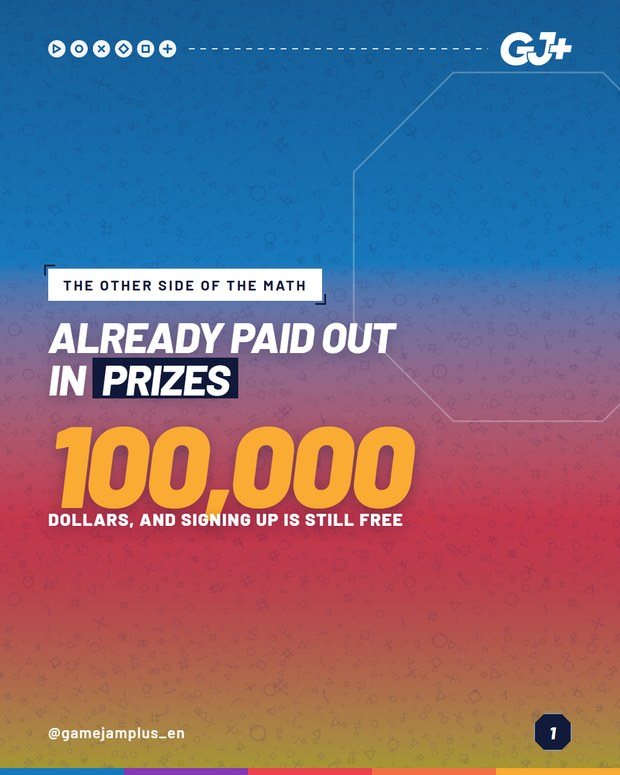
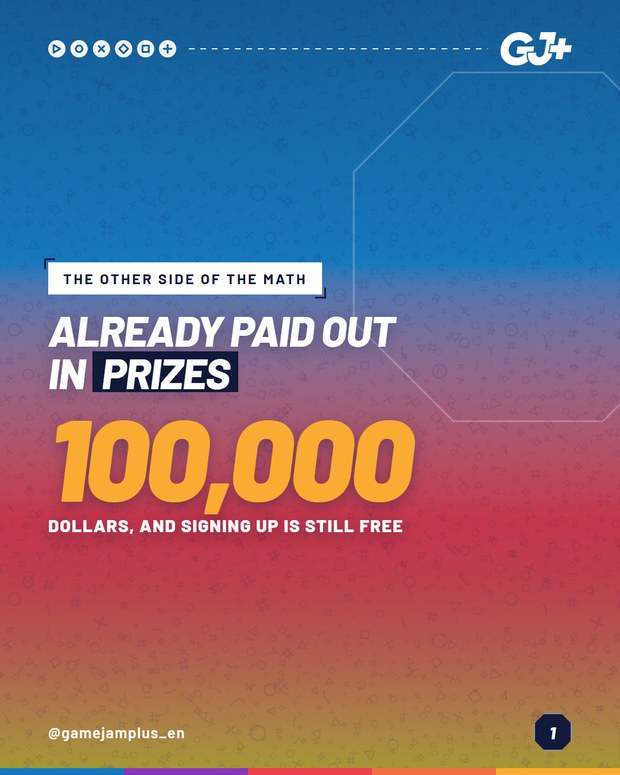
Numeral grande ganha respiro antes do rotulo
Com a virgula de "100,000" o descendente do numeral encostava na linha de
baixo, no E18 em ingles. O recuo negativo de -14px no `.big b` fechava o vao
de 140px que existia antes, mas fechava demais: o `line-height:.82` ja segura
esse vao sozinho. Saiu o recuo, e o respiro do rotulo subiu de 14 pra 22px,
que e o que o dono pediu tambem pros que nao encostavam.

Vale pra todo slide de numeral grande daqui em diante. O E12, que tambem usa o
bloco, so pega a mudanca quando for reexportado.

Changed region(s): [[0.0613, 0.3097, 0.6742, 0.7123]]

diff --git a/index.html b/index.html
@@ -1145,15 +1145,15 @@ dialog img{width:min(92vw,620px);max-height:92dvh;object-fit:contain;border-radi
 <article class="c" data-cat="01-conteudos-gj" data-lang="PT" data-busca="e18 - o que esta em jogo gj+" id="c266">
   <header><div><span class="tagcat">GJ+</span><span class="taglang PT">PT</span><h2>E18 - O que esta em jogo</h2></div>
   <div class="nav"><button aria-label="Anterior" data-d="-1">&#8592;</button><button aria-label="Pr&#243;ximo" data-d="1">&#8594;</button><span class="cont">6</span></div></header>
-  <div class="strip"><figure><img src="img/01-conteudos-gj-pt-e18-o-que-esta-em-jogo/slide_01.jpg?v=3" alt="E18 - O que esta em jogo 1" width="620" height="775" loading="lazy" decoding="async"><figcaption>01</figcaption></figure><figure><img src="img/01-conteudos-gj-pt-e18-o-que-esta-em-jogo/slide_02.jpg?v=3" alt="E18 - O que esta em jogo 2" width="620" height="775" loading="lazy" decoding="async"><figcaption>02</figcaption></figure><figure><img src="img/01-conteudos-gj-pt-e18-o-que-esta-em-jogo/slide_03.jpg?v=3" alt="E18 - O que esta em jogo 3" width="620" height="775" loading="lazy" decoding="async"><figcaption>03</figcaption></figure><figure><img src="img/01-conteudos-gj-pt-e18-o-que-esta-em-jogo/slide_04.jpg?v=3" alt="E18 - O que esta em jogo 4" width="620" height="775" loading="lazy" decoding="async"><figcaption>04</figcaption></figure><figure><img src="img/01-conteudos-gj-pt-e18-o-que-esta-em-jogo/slide_05.jpg?v=3" alt="E18 - O que esta em jogo 5" width="620" height="775" loading="lazy" decoding="async"><figcaption>05</figcaption></figure><figure><img src="img/01-conteudos-gj-pt-e18-o-que-esta-em-jogo/slide_06.jpg?v=3" alt="E18 - O que esta em jogo 6" width="620" height="775" loading="lazy" decoding="async"><figcaption>06</figcaption></figure></div></article>
+  <div class="strip"><figure><img src="img/01-conteudos-gj-pt-e18-o-que-esta-em-jogo/slide_01.jpg?v=4" alt="E18 - O que esta em jogo 1" width="620" height="775" loading="lazy" decoding="async"><figcaption>01</figcaption></figure><figure><img src="img/01-conteudos-gj-pt-e18-o-que-esta-em-jogo/slide_02.jpg?v=4" alt="E18 - O que esta em jogo 2" width="620" height="775" loading="lazy" decoding="async"><figcaption>02</figcaption></figure><figure><img src="img/01-conteudos-gj-pt-e18-o-que-esta-em-jogo/slide_03.jpg?v=4" alt="E18 - O que esta em jogo 3" width="620" height="775" loading="lazy" decoding="async"><figcaption>03</figcaption></figure><figure><img src="img/01-conteudos-gj-pt-e18-o-que-esta-em-jogo/slide_04.jpg?v=4" alt="E18 - O que esta em jogo 4" width="620" height="775" loading="lazy" decoding="async"><figcaption>04</figcaption></figure><figure><img src="img/01-conteudos-gj-pt-e18-o-que-esta-em-jogo/slide_05.jpg?v=4" alt="E18 - O que esta em jogo 5" width="620" height="775" loading="lazy" decoding="async"><figcaption>05</figcaption></figure><figure><img src="img/01-conteudos-gj-pt-e18-o-que-esta-em-jogo/slide_06.jpg?v=4" alt="E18 - O que esta em jogo 6" width="620" height="775" loading="lazy" decoding="async"><figcaption>06</figcaption></figure></div></article>
 <article class="c" data-cat="01-conteudos-gj" data-lang="EN" data-busca="e18 - what is on the table gj+" id="c267">
   <header><div><span class="tagcat">GJ+</span><span class="taglang EN">EN</span><h2>E18 - What is on the table</h2></div>
   <div class="nav"><button aria-label="Anterior" data-d="-1">&#8592;</button><button aria-label="Pr&#243;ximo" data-d="1">&#8594;</button><span class="cont">6</span></div></header>
-  <div class="strip"><figure><img src="img/01-conteudos-gj-en-e18-what-is-on-the-table/slide_01.jpg?v=3" alt="E18 - What is on the table 1" width="620" height="775" loading="lazy" decoding="async"><figcaption>01</figcaption></figure><figure><img src="img/01-conteudos-gj-en-e18-what-is-on-the-table/slide_02.jpg?v=3" alt="E18 - What is on the table 2" width="620" height="775" loading="lazy" decoding="async"><figcaption>02</figcaption></figure><figure><img src="img/01-conteudos-gj-en-e18-what-is-on-the-table/slide_03.jpg?v=3" alt="E18 - What is on the table 3" width="620" height="775" loading="lazy" decoding="async"><figcaption>03</figcaption></figure><figure><img src="img/01-conteudos-gj-en-e18-what-is-on-the-table/slide_04.jpg?v=3" alt="E18 - What is on the table 4" width="620" height="775" loading="lazy" decoding="async"><figcaption>04</figcaption></figure><figure><img src="img/01-conteudos-gj-en-e18-what-is-on-the-table/slide_05.jpg?v=3" alt="E18 - What is on the table 5" width="620" height="775" loading="lazy" decoding="async"><figcaption>05</figcaption></figure><figure><img src="img/01-conteudos-gj-en-e18-what-is-on-the-table/slide_06.jpg?v=3" alt="E18 - What is on the table 6" width="620" height="775" loading="lazy" decoding="async"><figcaption>06</figcaption></figure></div></article>
+  <div class="strip"><figure><img src="img/01-conteudos-gj-en-e18-what-is-on-the-table/slide_01.jpg?v=4" alt="E18 - What is on the table 1" width="620" height="775" loading="lazy" decoding="async"><figcaption>01</figcaption></figure><figure><img src="img/01-conteudos-gj-en-e18-what-is-on-the-table/slide_02.jpg?v=4" alt="E18 - What is on the table 2" width="620" height="775" loading="lazy" decoding="async"><figcaption>02</figcaption></figure><figure><img src="img/01-conteudos-gj-en-e18-what-is-on-the-table/slide_03.jpg?v=4" alt="E18 - What is on the table 3" width="620" height="775" loading="lazy" decoding="async"><figcaption>03</figcaption></figure><figure><img src="img/01-conteudos-gj-en-e18-what-is-on-the-table/slide_04.jpg?v=4" alt="E18 - What is on the table 4" width="620" height="775" loading="lazy" decoding="async"><figcaption>04</figcaption></figure><figure><img src="img/01-conteudos-gj-en-e18-what-is-on-the-table/slide_05.jpg?v=4" alt="E18 - What is on the table 5" width="620" height="775" loading="lazy" decoding="async"><figcaption>05</figcaption></figure><figure><img src="img/01-conteudos-gj-en-e18-what-is-on-the-table/slide_06.jpg?v=4" alt="E18 - What is on the table 6" width="620" height="775" loading="lazy" decoding="async"><figcaption>06</figcaption></figure></div></article>
 <article class="c" data-cat="01-conteudos-gj" data-lang="ES" data-busca="e18 - lo que esta en juego gj+" id="c268">
   <header><div><span class="tagcat">GJ+</span><span class="taglang ES">ES</span><h2>E18 - Lo que esta en juego</h2></div>
   <div class="nav"><button aria-label="Anterior" data-d="-1">&#8592;</button><button aria-label="Pr&#243;ximo" data-d="1">&#8594;</button><span class="cont">6</span></div></header>
-  <div class="strip"><figure><img src="img/01-conteudos-gj-es-e18-lo-que-esta-en-juego/slide_01.jpg?v=3" alt="E18 - Lo que esta en juego 1" width="620" height="775" loading="lazy" decoding="async"><figcaption>01</figcaption></figure><figure><img src="img/01-conteudos-gj-es-e18-lo-que-esta-en-juego/slide_02.jpg?v=3" alt="E18 - Lo que esta en juego 2" width="620" height="775" loading="lazy" decoding="async"><figcaption>02</figcaption></figure><figure><img src="img/01-conteudos-gj-es-e18-lo-que-esta-en-juego/slide_03.jpg?v=3" alt="E18 - Lo que esta en juego 3" width="620" height="775" loading="lazy" decoding="async"><figcaption>03</figcaption></figure><figure><img src="img/01-conteudos-gj-es-e18-lo-que-esta-en-juego/slide_04.jpg?v=3" alt="E18 - Lo que esta en juego 4" width="620" height="775" loading="lazy" decoding="async"><figcaption>04</figcaption></figure><figure><img src="img/01-conteudos-gj-es-e18-lo-que-esta-en-juego/slide_05.jpg?v=3" alt="E18 - Lo que esta en juego 5" width="620" height="775" loading="lazy" decoding="async"><figcaption>05</figcaption></figure><figure><img src="img/01-conteudos-gj-es-e18-lo-que-esta-en-juego/slide_06.jpg?v=3" alt="E18 - Lo que esta en juego 6" width="620" height="775" loading="lazy" decoding="async"><figcaption>06</figcaption></figure></div></article>
+  <div class="strip"><figure><img src="img/01-conteudos-gj-es-e18-lo-que-esta-en-juego/slide_01.jpg?v=4" alt="E18 - Lo que esta en juego 1" width="620" height="775" loading="lazy" decoding="async"><figcaption>01</figcaption></figure><figure><img src="img/01-conteudos-gj-es-e18-lo-que-esta-en-juego/slide_02.jpg?v=4" alt="E18 - Lo que esta en juego 2" width="620" height="775" loading="lazy" decoding="async"><figcaption>02</figcaption></figure><figure><img src="img/01-conteudos-gj-es-e18-lo-que-esta-en-juego/slide_03.jpg?v=4" alt="E18 - Lo que esta en juego 3" width="620" height="775" loading="lazy" decoding="async"><figcaption>03</figcaption></figure><figure><img src="img/01-conteudos-gj-es-e18-lo-que-esta-en-juego/slide_04.jpg?v=4" alt="E18 - Lo que esta en juego 4" width="620" height="775" loading="lazy" decoding="async"><figcaption>04</figcaption></figure><figure><img src="img/01-conteudos-gj-es-e18-lo-que-esta-en-juego/slide_05.jpg?v=4" alt="E18 - Lo que esta en juego 5" width="620" height="775" loading="lazy" decoding="async"><figcaption>05</figcaption></figure><figure><img src="img/01-conteudos-gj-es-e18-lo-que-esta-en-juego/slide_06.jpg?v=4" alt="E18 - Lo que esta en juego 6" width="620" height="775" loading="lazy" decoding="async"><figcaption>06</figcaption></figure></div></article>
 <article class="c" data-cat="01-conteudos-gj" data-lang="PT" data-busca="c07 - tres jogos da gj+ que estao a venda agora gj+" id="c269">
   <header><div><span class="tagcat">GJ+</span><span class="taglang PT">PT</span><h2>C07 - Tres jogos da GJ+ que estao a venda agora</h2></div>
   <div class="nav"><button aria-label="Anterior" data-d="-1">&#8592;</button><button aria-label="Pr&#243;ximo" data-d="1">&#8594;</button><span class="cont">6</span></div></header>

diff --git a/p/e18-es/index.html b/p/e18-es/index.html
@@ -10,7 +10,7 @@
 <meta property="og:site_name" content="GameJamPlus · carrosséis">
 <meta property="og:title" content="E18 - Lo que esta en juego">
 <meta property="og:description" content="Ya salieron de la GJ+ US$ 100 mil en premios, y la inscripción sigue siendo gratis. La Final Global entrega 15 premios en tres días presenciales, con co...">
-<meta property="og:image" content="https://gamejamplus-carrosseis.vercel.app/img/01-conteudos-gj-es-e18-lo-que-esta-en-juego/slide_01.jpg?v=3">
+<meta property="og:image" content="https://gamejamplus-carrosseis.vercel.app/img/01-conteudos-gj-es-e18-lo-que-esta-en-juego/slide_01.jpg?v=4">
 <meta property="og:url" content="https://gamejamplus-carrosseis.vercel.app/p/e18-es/">
 <meta name="twitter:card" content="summary_large_image">
 <link rel="preconnect" href="https://fonts.googleapis.com">
@@ -68,7 +68,7 @@ h1{font-size:23px;font-weight:800;letter-spacing:-.5px;margin:8px 0 4px;line-hei
   <p class="sub">6 slides</p>
 
   <div class="palco">
-    <img id="sl" src="../../img/01-conteudos-gj-es-e18-lo-que-esta-en-juego/slide_01.jpg?v=3" alt="E18 - Lo que esta en juego 1">
+    <img id="sl" src="../../img/01-conteudos-gj-es-e18-lo-que-esta-en-juego/slide_01.jpg?v=4" alt="E18 - Lo que esta en juego 1">
     <button class="seta e" type="button" aria-label="Anterior">←</button>
     <button class="seta d" type="button" aria-label="Próximo">→</button>
     <span class="cont"><b id="n">1</b>/6</span>
@@ -87,7 +87,7 @@ h1{font-size:23px;font-weight:800;letter-spacing:-.5px;margin:8px 0 4px;line-hei
   <p class="rod">Uso interno, para revisão.</p>
 </div>
 <script>
-const S=["../../img/01-conteudos-gj-es-e18-lo-que-esta-en-juego/slide_01.jpg?v=3","../../img/01-conteudos-gj-es-e18-lo-que-esta-en-juego/slide_02.jpg?v=3","../../img/01-conteudos-gj-es-e18-lo-que-esta-en-juego/slide_03.jpg?v=3","../../img/01-conteudos-gj-es-e18-lo-que-esta-en-juego/slide_04.jpg?v=3","../../img/01-conteudos-gj-es-e18-lo-que-esta-en-juego/slide_05.jpg?v=3","../../img/01-conteudos-gj-es-e18-lo-que-esta-en-juego/slide_06.jpg?v=3"];
+const S=["../../img/01-conteudos-gj-es-e18-lo-que-esta-en-juego/slide_01.jpg?v=4","../../img/01-conteudos-gj-es-e18-lo-que-esta-en-juego/slide_02.jpg?v=4","../../img/01-conteudos-gj-es-e18-lo-que-esta-en-juego/slide_03.jpg?v=4","../../img/01-conteudos-gj-es-e18-lo-que-esta-en-juego/slide_04.jpg?v=4","../../img/01-conteudos-gj-es-e18-lo-que-esta-en-juego/slide_05.jpg?v=4","../../img/01-conteudos-gj-es-e18-lo-que-esta-en-juego/slide_06.jpg?v=4"];
 const LEGTXT="Ya salieron de la GJ+ US$ 100 mil en premios, y la inscripción sigue siendo gratis. La Final Global entrega 15 premios en tres días presenciales, con contratos y networking internacional en la misma sala.\n\nAntes vienen cuatro semifinales continentales y un mes de bootcamp de negocios con conexión de inversores. Comenta qué etapa quieres ver más de cerca. Inscripción de la 11ª edición en el link de la bio.\n\n#GameJamPlus #GameJam #GameDev #IndieDev #IndieGames #GameDevCommunity";
 let i=0;
 const img=document.getElementById('sl'),nn=document.getElementById('n'),dots=document.getElementById('dots');

diff --git a/p/e18-en/index.html b/p/e18-en/index.html
@@ -10,7 +10,7 @@
 <meta property="og:site_name" content="GameJamPlus · carrosséis">
 <meta property="og:title" content="E18 - What is on the table">
 <meta property="og:description" content="US$ 100 thousand in prizes have already gone out of GJ+, and sign-up is still free. The Global Final hands out 15 prizes across three days in person, wi...">
-<meta property="og:image" content="https://gamejamplus-carrosseis.vercel.app/img/01-conteudos-gj-en-e18-what-is-on-the-table/slide_01.jpg?v=3">
+<meta property="og:image" content="https://gamejamplus-carrosseis.vercel.app/img/01-conteudos-gj-en-e18-what-is-on-the-table/slide_01.jpg?v=4">
 <meta property="og:url" content="https://gamejamplus-carrosseis.vercel.app/p/e18-en/">
 <meta name="twitter:card" content="summary_large_image">
 <link rel="preconnect" href="https://fonts.googleapis.com">
@@ -68,7 +68,7 @@ h1{font-size:23px;font-weight:800;letter-spacing:-.5px;margin:8px 0 4px;line-hei
   <p class="sub">6 slides</p>
 
   <div class="palco">
-    <img id="sl" src="../../img/01-conteudos-gj-en-e18-what-is-on-the-table/slide_01.jpg?v=3" alt="E18 - What is on the table 1">
+    <img id="sl" src="../../img/01-conteudos-gj-en-e18-what-is-on-the-table/slide_01.jpg?v=4" alt="E18 - What is on the table 1">
     <button class="seta e" type="button" aria-label="Anterior">←</button>
     <button class="seta d" type="button" aria-label="Próximo">→</button>
     <span class="cont"><b id="n">1</b>/6</span>
@@ -87,7 +87,7 @@ h1{font-size:23px;font-weight:800;letter-spacing:-.5px;margin:8px 0 4px;line-hei
   <p class="rod">Uso interno, para revisão.</p>
 </div>
 <script>
-const S=["../../img/01-conteudos-gj-en-e18-what-is-on-the-table/slide_01.jpg?v=3","../../img/01-conteudos-gj-en-e18-what-is-on-the-table/slide_02.jpg?v=3","../../img/01-conteudos-gj-en-e18-what-is-on-the-table/slide_03.jpg?v=3","../../img/01-conteudos-gj-en-e18-what-is-on-the-table/slide_04.jpg?v=3","../../img/01-conteudos-gj-en-e18-what-is-on-the-table/slide_05.jpg?v=3","../../img/01-conteudos-gj-en-e18-what-is-on-the-table/slide_06.jpg?v=3"];
+const S=["../../img/01-conteudos-gj-en-e18-what-is-on-the-table/slide_01.jpg?v=4","../../img/01-conteudos-gj-en-e18-what-is-on-the-table/slide_02.jpg?v=4","../../img/01-conteudos-gj-en-e18-what-is-on-the-table/slide_03.jpg?v=4","../../img/01-conteudos-gj-en-e18-what-is-on-the-table/slide_04.jpg?v=4","../../img/01-conteudos-gj-en-e18-what-is-on-the-table/slide_05.jpg?v=4","../../img/01-conteudos-gj-en-e18-what-is-on-the-table/slide_06.jpg?v=4"];
 const LEGTXT="US$ 100 thousand in prizes have already gone out of GJ+, and sign-up is still free. The Global Final hands out 15 prizes across three days in person, with contracts and international networking in the same room.\n\nBefore that come four continental semifinals and a month of business bootcamp with investor connections. Drop which stage you most want to see up close. 11th edition sign-up in the link in bio.\n\n#GameJamPlus #GameJam #GameDev #IndieDev #IndieGames #GameDevCommunity";
 let i=0;
 const img=document.getElementById('sl'),nn=document.getElementById('n'),dots=document.getElementById('dots');

diff --git a/p/e18-pt/index.html b/p/e18-pt/index.html
@@ -10,7 +10,7 @@
 <meta property="og:site_name" content="GameJamPlus · carrosséis">
 <meta property="og:title" content="E18 - O que esta em jogo">
 <meta property="og:description" content="Já saíram da GJ+ US$ 100 mil em prêmios, e a inscrição continua sendo grátis. A Final Global entrega 15 prêmios em três dias presenciais, com contratos...">
-<meta property="og:image" content="https://gamejamplus-carrosseis.vercel.app/img/01-conteudos-gj-pt-e18-o-que-esta-em-jogo/slide_01.jpg?v=3">
+<meta property="og:image" content="https://gamejamplus-carrosseis.vercel.app/img/01-conteudos-gj-pt-e18-o-que-esta-em-jogo/slide_01.jpg?v=4">
 <meta property="og:url" content="https://gamejamplus-carrosseis.vercel.app/p/e18-pt/">
 <meta name="twitter:card" content="summary_large_image">
 <link rel="preconnect" href="https://fonts.googleapis.com">
@@ -68,7 +68,7 @@ h1{font-size:23px;font-weight:800;letter-spacing:-.5px;margin:8px 0 4px;line-hei
   <p class="sub">6 slides</p>
 
   <div class="palco">
-    <img id="sl" src="../../img/01-conteudos-gj-pt-e18-o-que-esta-em-jogo/slide_01.jpg?v=3" alt="E18 - O que esta em jogo 1">
+    <img id="sl" src="../../img/01-conteudos-gj-pt-e18-o-que-esta-em-jogo/slide_01.jpg?v=4" alt="E18 - O que esta em jogo 1">
     <button class="seta e" type="button" aria-label="Anterior">←</button>
     <button class="seta d" type="button" aria-label="Próximo">→</button>
     <span class="cont"><b id="n">1</b>/6</span>
@@ -87,7 +87,7 @@ h1{font-size:23px;font-weight:800;letter-spacing:-.5px;margin:8px 0 4px;line-hei
   <p class="rod">Uso interno, para revisão.</p>
 </div>
 <script>
-const S=["../../img/01-conteudos-gj-pt-e18-o-que-esta-em-jogo/slide_01.jpg?v=3","../../img/01-conteudos-gj-pt-e18-o-que-esta-em-jogo/slide_02.jpg?v=3","../../img/01-conteudos-gj-pt-e18-o-que-esta-em-jogo/slide_03.jpg?v=3","../../img/01-conteudos-gj-pt-e18-o-que-esta-em-jogo/slide_04.jpg?v=3","../../img/01-conteudos-gj-pt-e18-o-que-esta-em-jogo/slide_05.jpg?v=3","../../img/01-conteudos-gj-pt-e18-o-que-esta-em-jogo/slide_06.jpg?v=3"];
+const S=["../../img/01-conteudos-gj-pt-e18-o-que-esta-em-jogo/slide_01.jpg?v=4","../../img/01-conteudos-gj-pt-e18-o-que-esta-em-jogo/slide_02.jpg?v=4","../../img/01-conteudos-gj-pt-e18-o-que-esta-em-jogo/slide_03.jpg?v=4","../../img/01-conteudos-gj-pt-e18-o-que-esta-em-jogo/slide_04.jpg?v=4","../../img/01-conteudos-gj-pt-e18-o-que-esta-em-jogo/slide_05.jpg?v=4","../../img/01-conteudos-gj-pt-e18-o-que-esta-em-jogo/slide_06.jpg?v=4"];
 const LEGTXT="Já saíram da GJ+ US$ 100 mil em prêmios, e a inscrição continua sendo grátis. A Final Global entrega 15 prêmios em três dias presenciais, com contratos e networking internacional na mesma sala.\n\nAntes dela vêm quatro semifinais continentais e um mês de bootcamp de negócios com conexão de investidor. Comenta qual etapa você mais quer ver de perto. Inscrição da 11ª edição no link da bio.\n\n#GameJamPlus #GameJam #GameDev #IndieDev #IndieGames #GameDevCommunity";
 let i=0;
 const img=document.getElementById('sl'),nn=document.getElementById('n'),dots=document.getElementById('dots');
